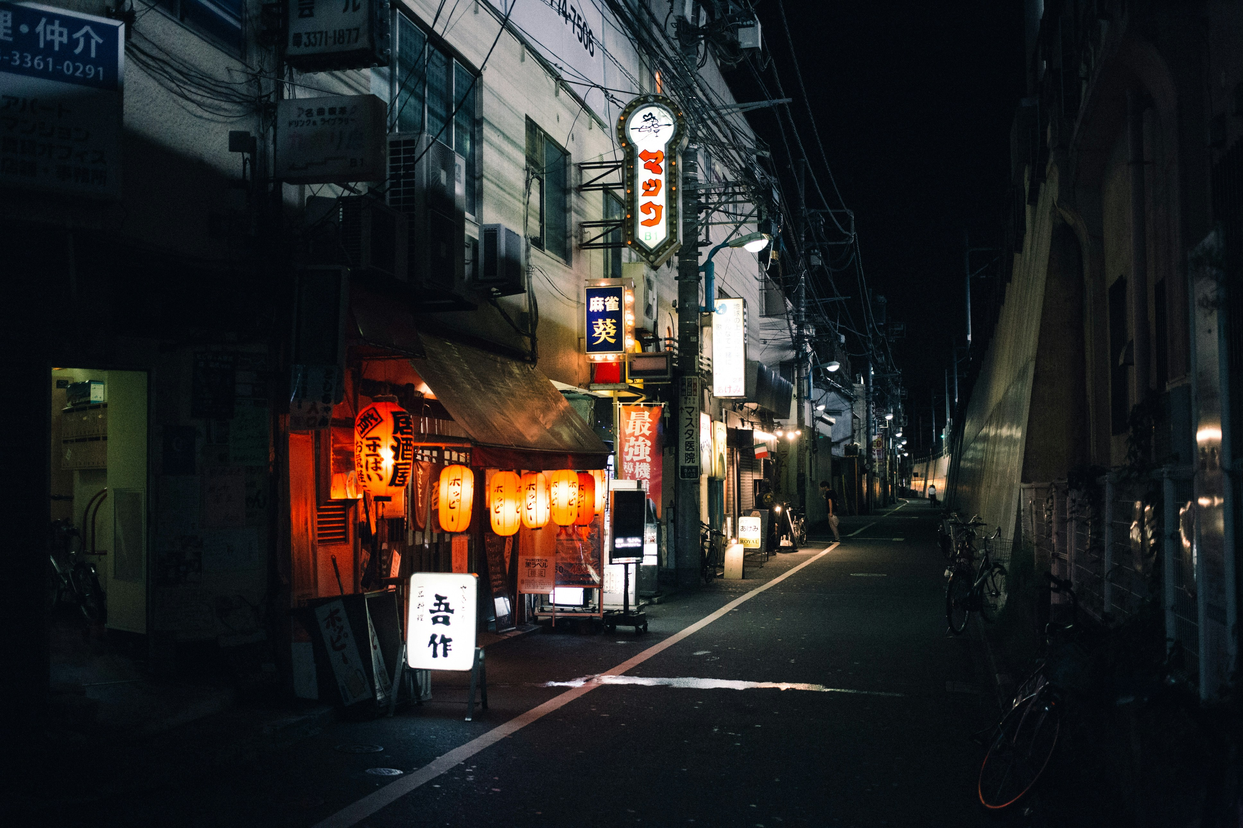
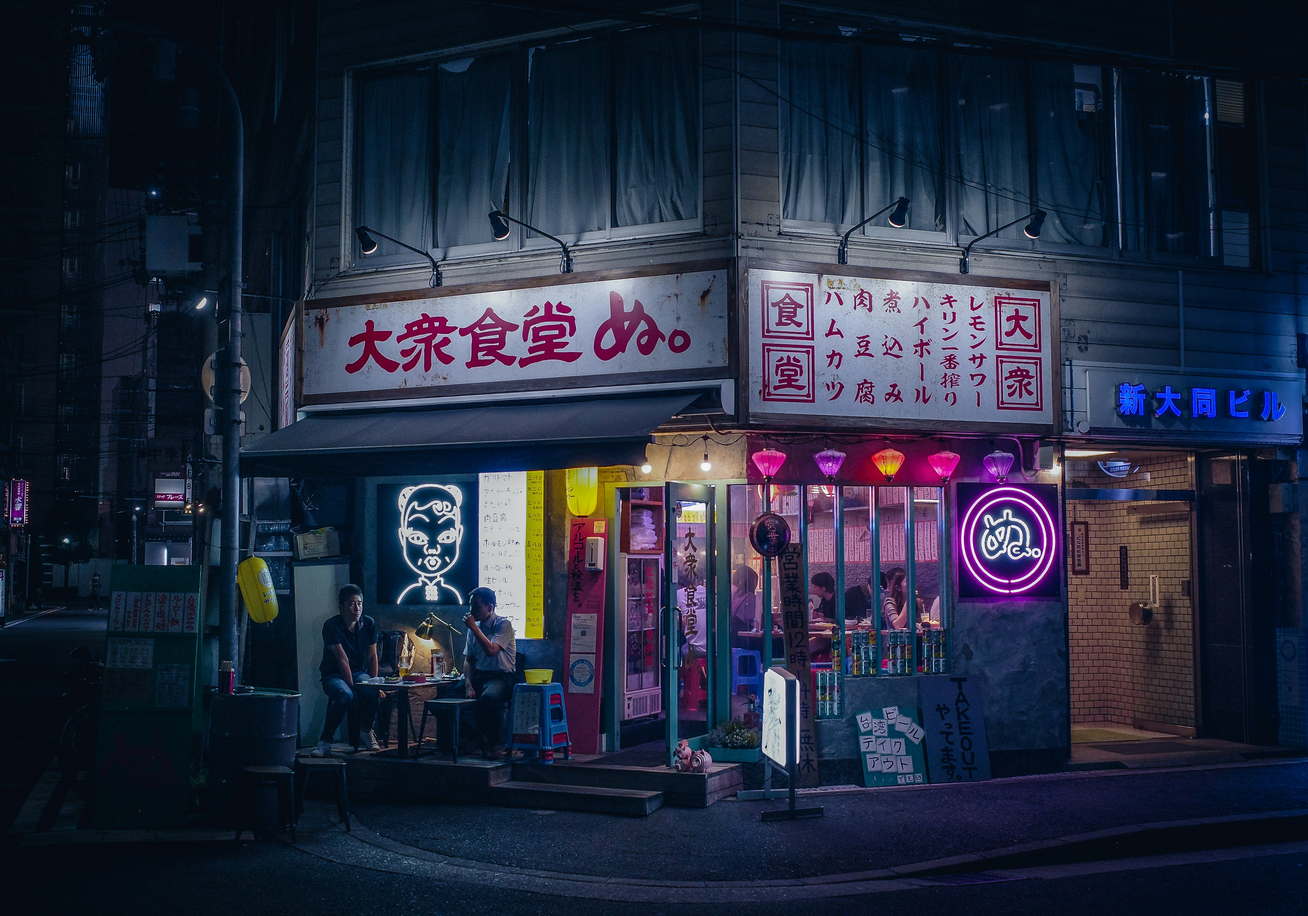
master: Changed theme to tn moon

diff --git a/waybar/colors.css b/waybar/colors.css
@@ -1,13 +1,30 @@
-@define-color bg      #1f1f28;
-@define-color fg      #dcd7ba;
-@define-color border  #5c6178;
+/* =========================
+   BASE
+   ========================= */
 
-/* Tokyo night colors */
-@define-color black   #090618;
-@define-color red     #c34043;
-@define-color green   #76946a;
-@define-color yellow  #c0a36e;
-@define-color blue    #7e9cd8;
-@define-color magenta #957fb8;
-@define-color cyan    #6a9589;
-@define-color white   #c8c093;
+@define-color bg #222436;
+@define-color fg #c8d3f5;
+@define-color border #444a73;
+
+/* =========================
+   TOKYO NIGHT MOON COLORS
+   ========================= */
+
+@define-color black #1b1d2b;
+@define-color red #ff757f;
+@define-color green #c3e88d;
+@define-color yellow #ffc777;
+@define-color blue #82aaff;
+@define-color magenta #c099ff;
+@define-color cyan #86e1fc;
+@define-color white #c8d3f5;
+
+/* =========================
+   OPTIONAL (EXTRAS)
+   ========================= */
+
+@define-color orange #ff966c;
+@define-color comment #7a88cf;
+@define-color gutter #2f334d;
+@define-color selection #2d3f76;
+@define-color cursor #c8d3f5;
